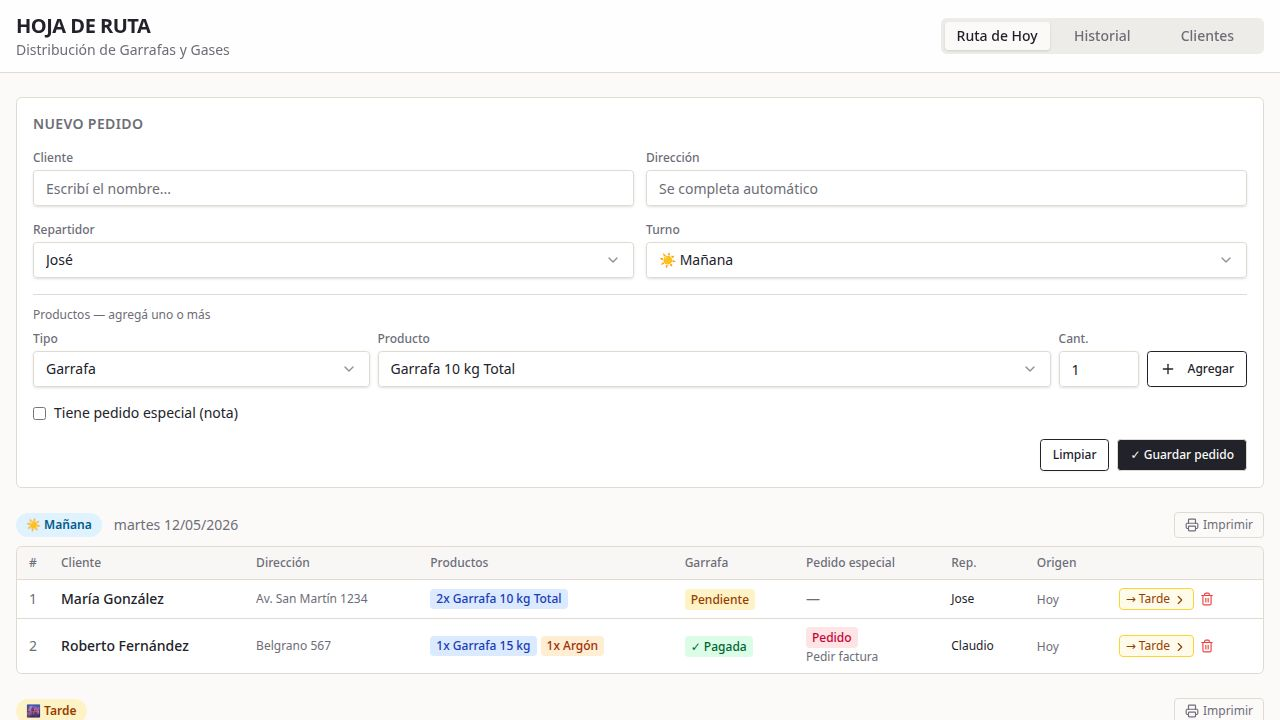
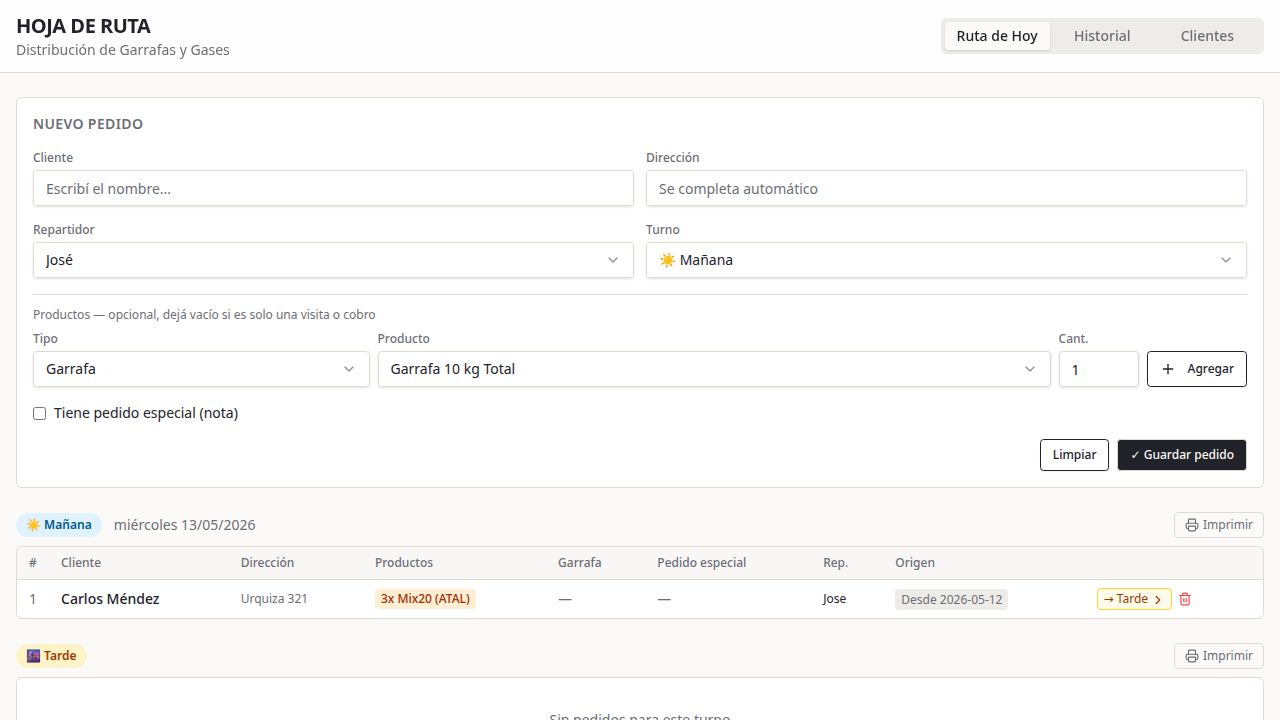
Add ability to record customer work hours and mark orders as visits
Add a new field to store customer working hours. Also, allow orders to be created without products, marking them as "visits only", and display customer work hours in the order form.

Replit-Commit-Author: Agent
Replit-Commit-Session-Id: 5e63358b-80f1-4360-849e-92d094217afb
Replit-Commit-Checkpoint-Type: full_checkpoint
Replit-Commit-Event-Id: 07183c97-02be-4753-a59c-790ec7282ab9
Replit-Commit-Screenshot-Url: https://storage.googleapis.com/screenshot-production-us-central1/3d1c56c4-7dd8-45b6-886d-e315900073a0/5e63358b-80f1-4360-849e-92d094217afb/609LdAW
Replit-Helium-Checkpoint-Created: true

diff --git a/artifacts/hoja-de-ruta/src/components/hoja-de-ruta/ClientesTab.tsx b/artifacts/hoja-de-ruta/src/components/hoja-de-ruta/ClientesTab.tsx
@@ -12,7 +12,7 @@ import { Button } from "@/components/ui/button";
 import { Input } from "@/components/ui/input";
 import { Label } from "@/components/ui/label";
 import { Skeleton } from "@/components/ui/skeleton";
-import { Pencil, Trash2 } from "lucide-react";
+import { Pencil, Trash2, Clock } from "lucide-react";
 
 export default function ClientesTab() {
   const qc = useQueryClient();
@@ -26,18 +26,21 @@ export default function ClientesTab() {
 
   const [nombre, setNombre] = useState("");
   const [dir, setDir] = useState("");
+  const [horario, setHorario] = useState("");
   const [editingId, setEditingId] = useState<number | null>(null);
   const [editDir, setEditDir] = useState("");
+  const [editHorario, setEditHorario] = useState("");
 
   const guardar = () => {
     if (!nombre.trim()) { alert("Ingresá el nombre"); return; }
     createCliente.mutate(
-      { data: { nombre: nombre.trim(), dir: dir.trim() } },
+      { data: { nombre: nombre.trim(), dir: dir.trim() || undefined, horario: horario.trim() || undefined } },
       {
         onSuccess: () => {
           qc.invalidateQueries({ queryKey: getListClientesQueryKey() });
           setNombre("");
           setDir("");
+          setHorario("");
         },
         onError: (err: unknown) => {
           const e = err as { data?: { error?: string } };
@@ -50,11 +53,12 @@ export default function ClientesTab() {
   const startEdit = (c: Cliente) => {
     setEditingId(c.id);
     setEditDir(c.dir ?? "");
+    setEditHorario(c.horario ?? "");
   };
 
   const saveEdit = (c: Cliente) => {
     updateCliente.mutate(
-      { id: c.id, data: { dir: editDir } },
+      { id: c.id, data: { dir: editDir, horario: editHorario || undefined } },
       {
         onSuccess: () => {
           qc.invalidateQueries({ queryKey: getListClientesQueryKey() });
@@ -103,6 +107,18 @@ export default function ClientesTab() {
             />
           </div>
         </div>
+        <div>
+          <Label className="text-xs text-muted-foreground mb-1 block">
+            Horario de atención <span className="italic">(opcional)</span>
+          </Label>
+          <Input
+            data-testid="input-cli-horario"
+            value={horario}
+            onChange={(e) => setHorario(e.target.value)}
+            placeholder="Ej: Lunes a viernes 8:00-12:00, sábados hasta las 11"
+            onKeyDown={(e) => e.key === "Enter" && guardar()}
+          />
+        </div>
         <div className="flex justify-end">
           <Button size="sm" onClick={guardar} disabled={createCliente.isPending} data-testid="button-guardar-cliente">
             {createCliente.isPending ? "Guardando..." : "+ Guardar cliente"}
@@ -130,33 +146,56 @@ export default function ClientesTab() {
             {clientes.map((c) => (
               <div
                 key={c.id}
-                className="flex items-center justify-between bg-muted/30 border border-border rounded p-3 gap-3"
+                className="flex items-start justify-between bg-muted/30 border border-border rounded p-3 gap-3"
                 data-testid={`card-cliente-${c.id}`}
               >
                 <div className="flex-1 min-w-0">
                   <p className="font-medium text-sm">{c.nombre}</p>
+
                   {editingId === c.id ? (
-                    <div className="flex items-center gap-2 mt-1">
-                      <Input
-                        data-testid={`input-edit-dir-${c.id}`}
-                        value={editDir}
-                        onChange={(e) => setEditDir(e.target.value)}
-                        className="h-7 text-xs"
-                        onKeyDown={(e) => e.key === "Enter" && saveEdit(c)}
-                        autoFocus
-                      />
-                      <Button size="sm" className="h-7 text-xs" onClick={() => saveEdit(c)} data-testid={`button-save-dir-${c.id}`}>
-                        Guardar
-                      </Button>
-                      <Button size="sm" variant="outline" className="h-7 text-xs" onClick={() => setEditingId(null)}>
-                        Cancelar
-                      </Button>
+                    <div className="space-y-2 mt-1">
+                      <div className="flex items-center gap-2">
+                        <Input
+                          data-testid={`input-edit-dir-${c.id}`}
+                          value={editDir}
+                          onChange={(e) => setEditDir(e.target.value)}
+                          className="h-7 text-xs"
+                          placeholder="Dirección"
+                          onKeyDown={(e) => e.key === "Enter" && saveEdit(c)}
+                          autoFocus
+                        />
+                      </div>
+                      <div className="flex items-center gap-2">
+                        <Input
+                          data-testid={`input-edit-horario-${c.id}`}
+                          value={editHorario}
+                          onChange={(e) => setEditHorario(e.target.value)}
+                          className="h-7 text-xs"
+                          placeholder="Horario de atención (opcional)"
+                          onKeyDown={(e) => e.key === "Enter" && saveEdit(c)}
+                        />
+                      </div>
+                      <div className="flex gap-2">
+                        <Button size="sm" className="h-7 text-xs" onClick={() => saveEdit(c)} data-testid={`button-save-dir-${c.id}`}>
+                          Guardar
+                        </Button>
+                        <Button size="sm" variant="outline" className="h-7 text-xs" onClick={() => setEditingId(null)}>
+                          Cancelar
+                        </Button>
+                      </div>
                     </div>
                   ) : (
-                    <p className="text-xs text-muted-foreground">{c.dir || "(sin dirección)"}</p>
+                    <div className="space-y-0.5 mt-0.5">
+                      <p className="text-xs text-muted-foreground">{c.dir || "(sin dirección)"}</p>
+                      {c.horario && (
+                        <p className="text-xs text-sky-600 flex items-center gap-1">
+                          <Clock className="h-3 w-3" /> {c.horario}
+                        </p>
+                      )}
+                    </div>
                   )}
                 </div>
-                <div className="flex items-center gap-1 shrink-0">
+                <div className="flex items-center gap-1 shrink-0 mt-0.5">
                   {editingId !== c.id && (
                     <button
                       className="text-xs border border-border rounded px-2 py-1 hover:bg-muted flex items-center gap-1 text-muted-foreground"

diff --git a/artifacts/hoja-de-ruta/src/components/hoja-de-ruta/HojaDeRutaTab.tsx b/artifacts/hoja-de-ruta/src/components/hoja-de-ruta/HojaDeRutaTab.tsx
@@ -67,6 +67,7 @@ export default function HojaDeRutaTab() {
   // Form state
   const [nombre, setNombre] = useState("");
   const [dir, setDir] = useState("");
+  const [horarioCliente, setHorarioCliente] = useState<string | null>(null);
   const [rep, setRep] = useState("Jose");
   const [turno, setTurno] = useState<"manana" | "tarde">("manana");
   const [items, setItems] = useState<PedidoItem[]>([]);
@@ -105,6 +106,7 @@ export default function HojaDeRutaTab() {
   const selectCliente = (c: Cliente) => {
     setNombre(c.nombre);
     setDir(c.dir ?? "");
+    setHorarioCliente(c.horario ?? null);
     setShowSug(false);
   };
 
@@ -118,14 +120,13 @@ export default function HojaDeRutaTab() {
   };
 
   const limpiar = () => {
-    setNombre(""); setDir(""); setRep("Jose"); setTurno("manana");
+    setNombre(""); setDir(""); setHorarioCliente(null); setRep("Jose"); setTurno("manana");
     setItems([]); setItemTipo("garrafa"); setItemProd(GARRAFAS[0]); setItemCant(1);
     setGarrafaEstado("pendiente"); setTienePedido(false); setNota("");
   };
 
   const guardar = () => {
     if (!nombre.trim()) { alert("Completá el nombre del cliente"); return; }
-    if (!items.length) { alert("Agregá al menos un producto"); return; }
     createPedido.mutate(
       {
         data: {
@@ -232,6 +233,9 @@ export default function HojaDeRutaTab() {
                   >
                     <span className="font-medium">{c.nombre}</span>
                     {c.dir && <span className="text-muted-foreground text-xs ml-2">— {c.dir}</span>}
+                    {c.horario && (
+                      <span className="text-xs text-sky-600 ml-2 block">🕐 {c.horario}</span>
+                    )}
                   </div>
                 ))}
               </div>
@@ -247,6 +251,13 @@ export default function HojaDeRutaTab() {
             />
           </div>
         </div>
+
+        {horarioCliente && (
+          <div className="flex items-center gap-2 text-xs text-sky-700 bg-sky-50 border border-sky-200 rounded px-3 py-1.5">
+            <Clock className="h-3.5 w-3.5 shrink-0" />
+            <span>Horario del cliente: <strong>{horarioCliente}</strong></span>
+          </div>
+        )}
 
         <div className="grid grid-cols-2 gap-3">
           <div>
@@ -277,7 +288,7 @@ export default function HojaDeRutaTab() {
 
         {/* Product builder */}
         <div className="border-t border-border pt-3 space-y-2">
-          <p className="text-xs text-muted-foreground">Productos — agregá uno o más</p>
+          <p className="text-xs text-muted-foreground">Productos — opcional, dejá vacío si es solo una visita o cobro</p>
           <div className="grid grid-cols-[1fr_2fr_80px_auto] gap-2 items-end">
             <div>
               <Label className="text-xs text-muted-foreground mb-1 block">Tipo</Label>
@@ -517,16 +528,20 @@ function TurnoSection({
                       <td className="px-3 py-2 font-medium whitespace-nowrap">{p.nombre}</td>
                       <td className="px-3 py-2 text-xs text-muted-foreground hidden sm:table-cell">{p.dir}</td>
                       <td className="px-3 py-2">
-                        <div className="flex flex-wrap gap-1">
-                          {p.items.map((it, j) => (
-                            <span
-                              key={j}
-                              className={`text-xs px-1.5 py-0.5 rounded font-medium ${it.tipo === "garrafa" ? "bg-blue-100 text-blue-800" : "bg-orange-100 text-orange-800"}`}
-                            >
-                              {it.cant}x {it.prod}
-                            </span>
-                          ))}
-                        </div>
+                        {p.items.length === 0 ? (
+                          <span className="text-xs px-1.5 py-0.5 rounded bg-purple-100 text-purple-800 font-medium">Solo visita</span>
+                        ) : (
+                          <div className="flex flex-wrap gap-1">
+                            {p.items.map((it, j) => (
+                              <span
+                                key={j}
+                                className={`text-xs px-1.5 py-0.5 rounded font-medium ${it.tipo === "garrafa" ? "bg-blue-100 text-blue-800" : "bg-orange-100 text-orange-800"}`}
+                              >
+                                {it.cant}x {it.prod}
+                              </span>
+                            ))}
+                          </div>
+                        )}
                       </td>
                       <td className="px-3 py-2">
                         {p.tieneGarrafa ? <GarrafaBadge estado={p.garrafaEstado} /> : <span className="text-muted-foreground">—</span>}

diff --git a/artifacts/api-server/src/routes/clientes.ts b/artifacts/api-server/src/routes/clientes.ts
@@ -25,7 +25,7 @@ router.post("/clientes", async (req, res) => {
     return;
   }
 
-  const { nombre, dir } = parsed.data;
+  const { nombre, dir, horario } = parsed.data;
 
   const existing = await db
     .select()
@@ -40,7 +40,7 @@ router.post("/clientes", async (req, res) => {
 
   const [cliente] = await db
     .insert(clientesTable)
-    .values({ nombre, dir: dir ?? null })
+    .values({ nombre, dir: dir ?? null, horario: horario ?? null })
     .returning();
 
   res.status(201).json(cliente);

diff --git a/lib/db/src/schema/clientes.ts b/lib/db/src/schema/clientes.ts
@@ -6,6 +6,7 @@ export const clientesTable = pgTable("clientes", {
   id: bigserial("id", { mode: "number" }).primaryKey(),
   nombre: text("nombre").notNull(),
   dir: text("dir"),
+  horario: text("horario"),
 });
 
 export const insertClienteSchema = createInsertSchema(clientesTable).omit({ id: true });
